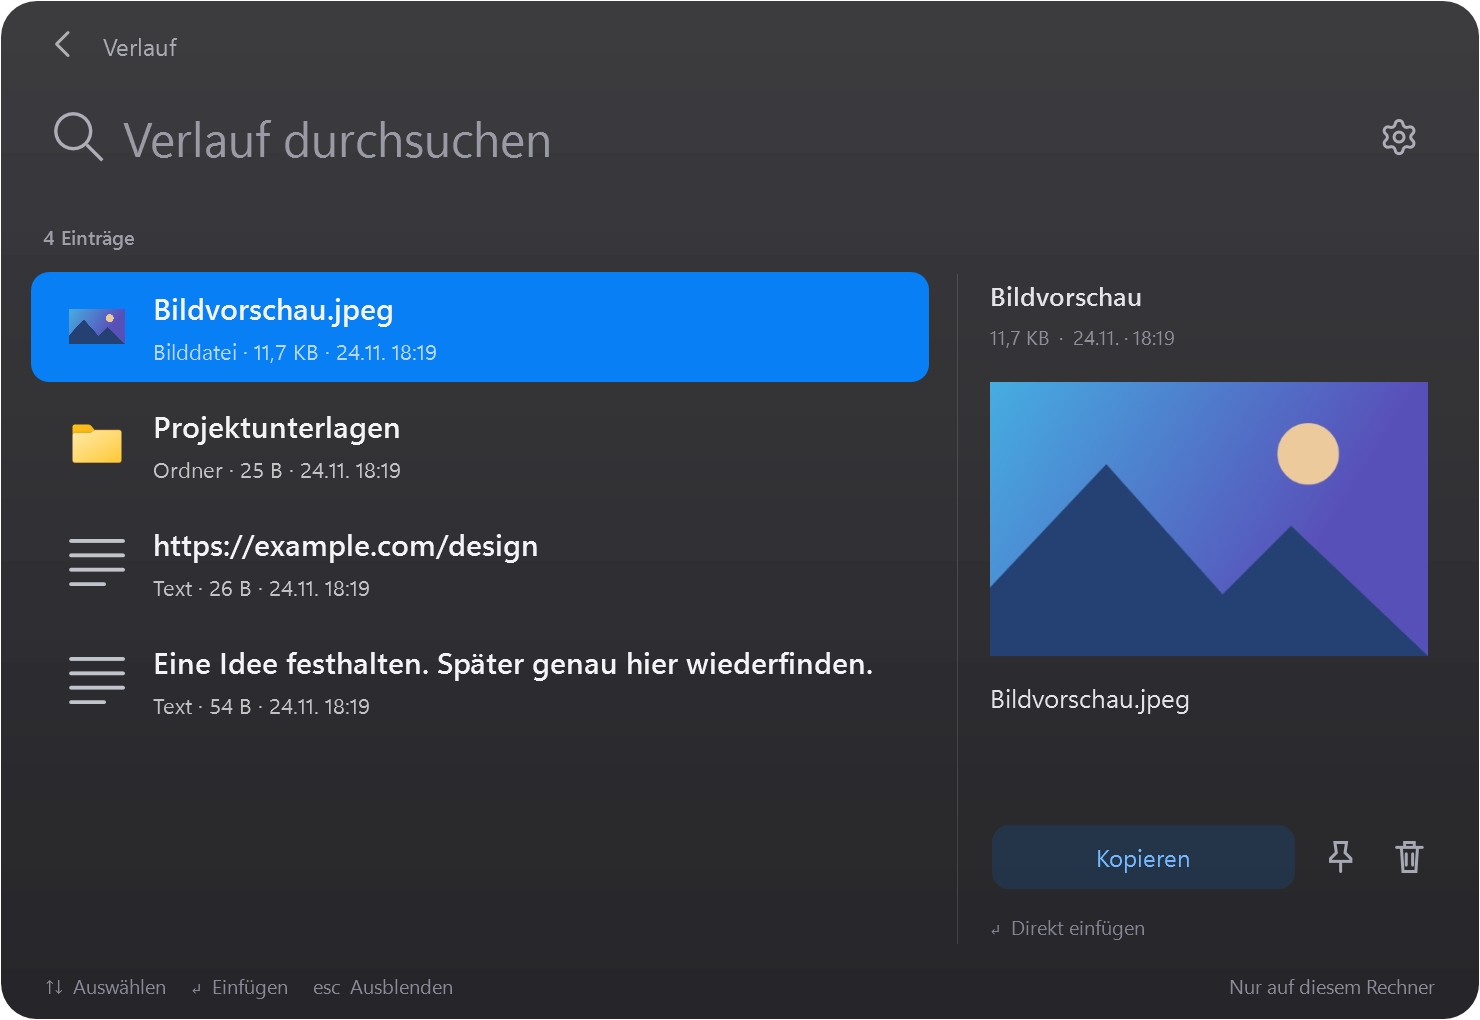
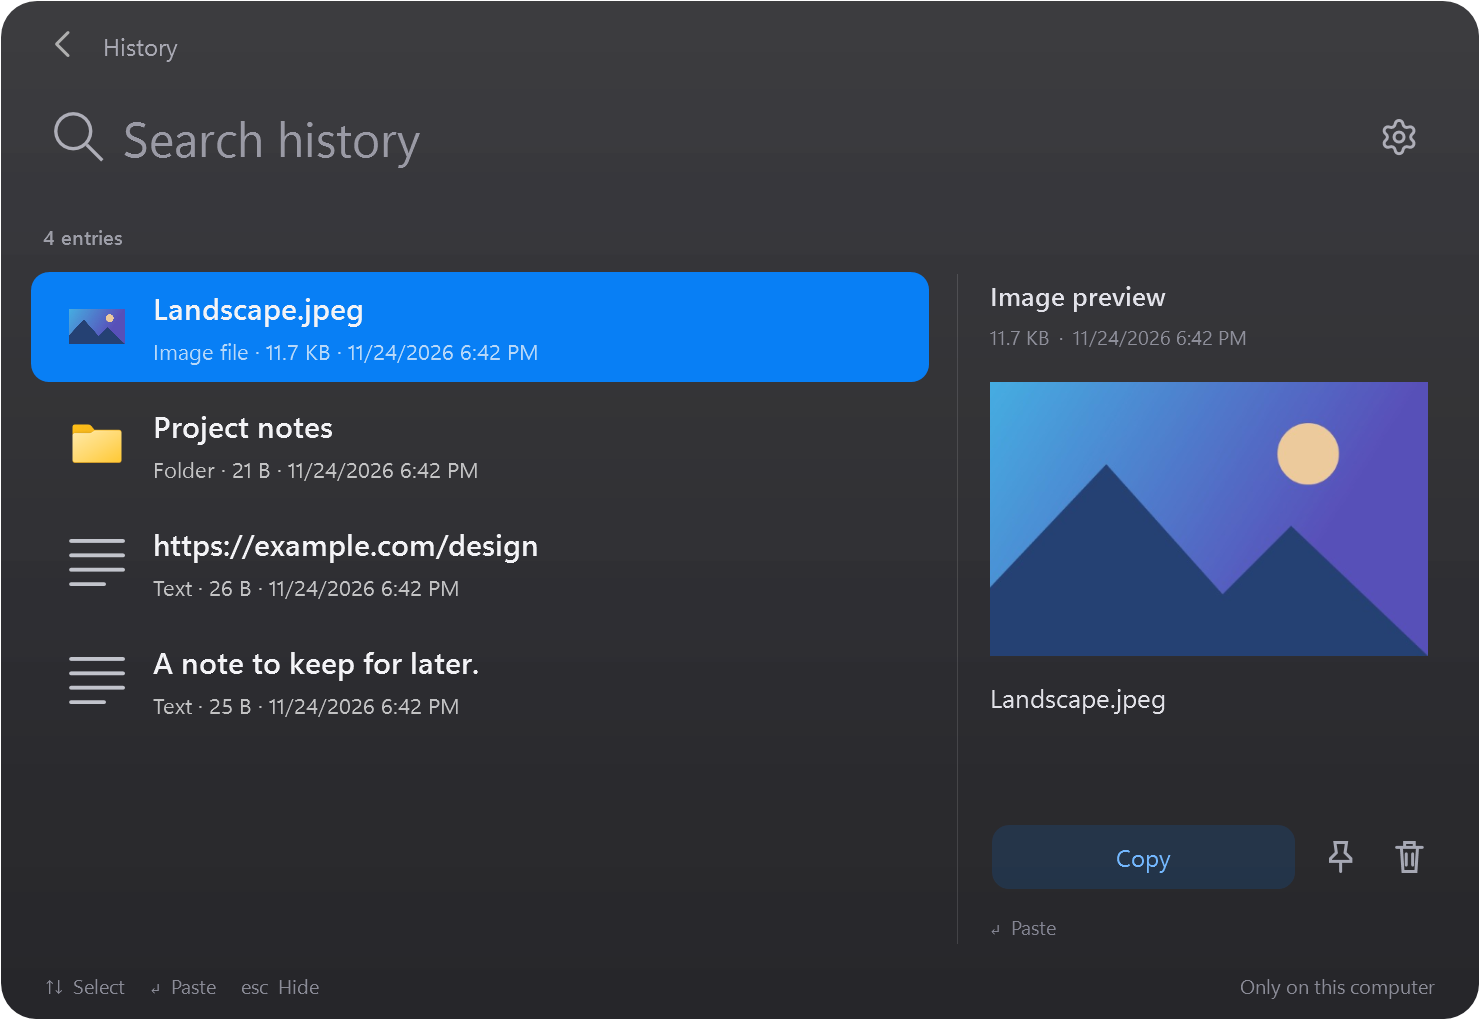
Show Windows and Mac screenshots and finish language-aware formatting

diff --git a/mac/Kopra.swift b/mac/Kopra.swift
@@ -35,7 +35,7 @@ struct SettingsView: View {
         VStack(alignment:.leading,spacing:14){Text("Kopra").font(.system(size:25,weight:.semibold));Picker(L.text("Bereich"),selection:$model.settingsTab){Text(L.text("Allgemein")).tag(0);Text(L.text("Verlauf")).tag(1);Text(L.text("Geräte")).tag(2);Text(L.text("Datenschutz")).tag(3)}.pickerStyle(.segmented)
             Form{
                 if model.settingsTab==0{Section(L.text("Sprache")){Picker(L.text("Sprache der App"),selection:Binding(get:{model.history.preferences.language},set:{model.history.preferences.language=$0;L.use($0);model.save();model.search()})){Text("English").tag("en");Text("Deutsch").tag("de")}};Section(L.text("Bedienung")){Toggle(L.text("Zwischenablageverlauf pausieren"),isOn:binding(\.paused));Toggle(L.text("Nach Anmeldung starten"),isOn:Binding(get:{SMAppService.mainApp.status == .enabled},set:{enabled in do{if enabled{try SMAppService.mainApp.register()}else{try SMAppService.mainApp.unregister()};model.save()}catch{model.status=L.text("Autostart in den Systemeinstellungen prüfen")}}));HStack{Text(L.text("Suche öffnen"));Spacer();Button(L.shortcut(model.history.preferences.searchLabel)){recordSearch=true}};HStack{Text(L.text("Verlauf öffnen"));Spacer();Button(L.shortcut(model.history.preferences.historyLabel)){recordHistory=true}}};Section(L.text("Suche")){Text(L.text("Apps, Dateien und Ordner sowie die wichtigsten Systemeinstellungen."));Text(L.text("Die Dateisuche verwendet den lokalen macOS-Index.")).font(.caption).foregroundStyle(.secondary)}}
-                if model.settingsTab==1{Section(L.text("Wie lange soll dein Verlauf bleiben?")){Picker(L.text("Texte behalten"),selection:binding(\.textDays)){Text(L.text("1 Tag")).tag(1);Text(L.text("1 Woche")).tag(7);Text(L.text("2 Wochen")).tag(14);Text(L.text("1 Monat")).tag(30);Text(L.text("3 Monate")).tag(90);Text(L.text("1 Jahr")).tag(365)};Picker(L.text("Bilder und Dateien behalten"),selection:binding(\.fileDays)){Text(L.text("1 Tag")).tag(1);Text(L.text("1 Woche")).tag(7);Text(L.text("2 Wochen")).tag(14);Text(L.text("1 Monat")).tag(30);Text(L.text("3 Monate")).tag(90);Text(L.text("1 Jahr")).tag(365)};Text(L.text("Angeheftete Einträge bleiben erhalten.")).font(.caption).foregroundStyle(.secondary)};Section(L.text("Speicher")){Picker(L.text("Platz für den Verlauf"),selection:binding(\.budgetMB)){Text("512 MB").tag(512);Text("1 GB").tag(1024);Text(L.text("2 GB · empfohlen")).tag(2048);Text("5 GB").tag(5120);Text("10 GB").tag(10240)};Text(ByteCountFormatter.string(fromByteCount:model.history.allocated(),countStyle:.file)+" verwendet").font(.caption).foregroundStyle(.secondary);DisclosureGroup(L.text("Weitere Schutzgrenzen"),isExpanded:$advanced){Picker(L.text("Freihalten auf dem Laufwerk"),selection:binding(\.reserveMB)){Text("1 GB").tag(1024);Text(L.text("5 GB · empfohlen")).tag(5120);Text("10 GB").tag(10240)};Text(L.text("Maximal 32 MB pro geräteübergreifender Kopie. Größere Kopien werden in dieser Fassung nicht gesichert.")).font(.caption).foregroundStyle(.secondary)}}}
+                if model.settingsTab==1{Section(L.text("Wie lange soll dein Verlauf bleiben?")){Picker(L.text("Texte behalten"),selection:binding(\.textDays)){Text(L.text("1 Tag")).tag(1);Text(L.text("1 Woche")).tag(7);Text(L.text("2 Wochen")).tag(14);Text(L.text("1 Monat")).tag(30);Text(L.text("3 Monate")).tag(90);Text(L.text("1 Jahr")).tag(365)};Picker(L.text("Bilder und Dateien behalten"),selection:binding(\.fileDays)){Text(L.text("1 Tag")).tag(1);Text(L.text("1 Woche")).tag(7);Text(L.text("2 Wochen")).tag(14);Text(L.text("1 Monat")).tag(30);Text(L.text("3 Monate")).tag(90);Text(L.text("1 Jahr")).tag(365)};Text(L.text("Angeheftete Einträge bleiben erhalten.")).font(.caption).foregroundStyle(.secondary)};Section(L.text("Speicher")){Picker(L.text("Platz für den Verlauf"),selection:binding(\.budgetMB)){Text("512 MB").tag(512);Text("1 GB").tag(1024);Text(L.text("2 GB · empfohlen")).tag(2048);Text("5 GB").tag(5120);Text("10 GB").tag(10240)};Text(L.bytes(model.history.allocated())+L.text(" verwendet")).font(.caption).foregroundStyle(.secondary);DisclosureGroup(L.text("Weitere Schutzgrenzen"),isExpanded:$advanced){Picker(L.text("Freihalten auf dem Laufwerk"),selection:binding(\.reserveMB)){Text("1 GB").tag(1024);Text(L.text("5 GB · empfohlen")).tag(5120);Text("10 GB").tag(10240)};Text(L.text("Maximal 32 MB pro geräteübergreifender Kopie. Größere Kopien werden in dieser Fassung nicht gesichert.")).font(.caption).foregroundStyle(.secondary)}}}
                 if model.settingsTab==2{DevicePairingView(model:model)}
                 if model.settingsTab==3{Section(L.text("Von diesen Apps nichts speichern")){ForEach(model.history.preferences.excluded,id:\.self){id in HStack{Text(NSWorkspace.shared.urlForApplication(withBundleIdentifier:id)?.deletingPathExtension().lastPathComponent ?? id);Spacer();Button(L.text("Entfernen")){model.history.preferences.excluded.removeAll{$0==id};model.save()}}};Button(L.text("App ausschließen …")){let picker=NSOpenPanel();picker.allowedContentTypes=[.applicationBundle];picker.directoryURL=URL(fileURLWithPath:"/Applications");if picker.runModal() == .OK,let url=picker.url,let bundle=Bundle(url:url)?.bundleIdentifier{if !model.history.preferences.excluded.contains(bundle){model.history.preferences.excluded.append(bundle);model.save()}}}};Section(L.text("Verlauf löschen")){Button(L.text("Nicht angehefteten Verlauf löschen …"),role:.destructive){clearUnpinned=true};Button(L.text("Gesamten Verlauf löschen …"),role:.destructive){clearAll=true};Text(L.text("Originaldateien bleiben erhalten. Lokale Verlaufsdaten sind nicht zusätzlich verschlüsselt.")).font(.caption).foregroundStyle(.secondary)}}
             }.formStyle(.grouped)

diff --git a/mac/AppModel.swift b/mac/AppModel.swift
@@ -30,11 +30,11 @@ struct SearchResult: Identifiable { var id: String; var title: String; var subti
     }
     func search() {
         searchGeneration+=1;let generation=searchGeneration;selected=0
-        if historyMode { rows=history.entries.filter{query.isEmpty||$0.title.localizedCaseInsensitiveContains(query)||$0.text.localizedCaseInsensitiveContains(query)}.sorted{a,b in a.pinned != b.pinned ? a.pinned : a.created>b.created}.prefix(200).map{SearchResult(id:$0.id,title:$0.title,subtitle:($0.origin.isEmpty ? "": L.format("Von {0} · ", $0.origin))+ByteCountFormatter.string(fromByteCount:Int64($0.bytes),countStyle:.file),url:$0.paths.first.map{URL(fileURLWithPath:$0)},symbol:$0.kind=="text" ? "text.alignleft":"doc",entry:$0)};return }
+        if historyMode { rows=history.entries.filter{query.isEmpty||$0.title.localizedCaseInsensitiveContains(query)||$0.text.localizedCaseInsensitiveContains(query)}.sorted{a,b in a.pinned != b.pinned ? a.pinned : a.created>b.created}.prefix(200).map{SearchResult(id:$0.id,title:$0.title,subtitle:($0.origin.isEmpty ? "": L.format("Von {0} · ", $0.origin))+L.bytes(Int64($0.bytes)),url:$0.paths.first.map{URL(fileURLWithPath:$0)},symbol:$0.kind=="text" ? "text.alignleft":"doc",entry:$0)};return }
         let term=query;var result=[SearchResult]();if term.isEmpty||"Verlauf Zwischenablage".localizedCaseInsensitiveContains(term){result.append(SearchResult(id:"history",title:L.text("Verlauf"),subtitle:L.text("Texte, Bilder, Dateien und Ordner"),symbol:"clipboard",entry:nil))}
         let apps=term.isEmpty ? recent : applications.filter{self.appTitle($0).localizedCaseInsensitiveContains(term)||self.appKeywords($0).localizedCaseInsensitiveContains(term)}.sorted{a,b in a.deletingPathExtension().lastPathComponent.localizedCaseInsensitiveCompare(term) == .orderedSame}
         result += apps.prefix(12).map{SearchResult(id:$0.path,title:self.appTitle($0),subtitle:term.isEmpty ? L.text("Zuletzt verwendet"):"App",url:$0,symbol:"app",entry:nil)}
-        let settingsList:[(String,String)]=[("Systemeinstellungen",""),("WLAN","com.apple.wifi-settings-extension"),("Bluetooth","com.apple.BluetoothSettings"),("Ton","com.apple.Sound-Settings.extension"),("Displays","com.apple.Displays-Settings.extension"),("Tastatur","com.apple.Keyboard-Settings.extension"),(L.text("Datenschutz und Sicherheit"),"com.apple.settings.PrivacySecurity.extension"),("Mitteilungen","com.apple.Notifications-Settings.extension"),(L.text("Allgemein"),"com.apple.systempreferences.GeneralSettings"),("Bedienungshilfen","com.apple.Accessibility-Settings.extension"),("Batterie","com.apple.Battery-Settings.extension"),(L.text("Schreibtisch und Dock"),"com.apple.Desktop-Settings.extension"),("Maus","com.apple.Mouse-Settings.extension"),("Trackpad","com.apple.Trackpad-Settings.extension"),("Netzwerk","com.apple.Network-Settings.extension"),(L.text("Speicher"),"com.apple.settings.Storage"),(L.text("Datum und Uhrzeit"),"com.apple.Date-Time-Settings.extension"),(L.text("Sprache und Region"),"com.apple.Localization-Settings.extension"),(L.text("Benutzer und Gruppen"),"com.apple.Users-Groups-Settings.extension"),("Sperrbildschirm","com.apple.Lock-Screen-Settings.extension"),("Fokus","com.apple.Focus-Settings.extension")]
+        let settingsList:[(String,String)]=[("Systemeinstellungen",""),(L.text("WLAN"),"com.apple.wifi-settings-extension"),("Bluetooth","com.apple.BluetoothSettings"),("Ton","com.apple.Sound-Settings.extension"),("Displays","com.apple.Displays-Settings.extension"),(L.text("Tastatur"),"com.apple.Keyboard-Settings.extension"),(L.text("Datenschutz und Sicherheit"),"com.apple.settings.PrivacySecurity.extension"),("Mitteilungen","com.apple.Notifications-Settings.extension"),(L.text("Allgemein"),"com.apple.systempreferences.GeneralSettings"),("Bedienungshilfen","com.apple.Accessibility-Settings.extension"),("Batterie","com.apple.Battery-Settings.extension"),(L.text("Schreibtisch und Dock"),"com.apple.Desktop-Settings.extension"),(L.text("Maus"),"com.apple.Mouse-Settings.extension"),("Trackpad","com.apple.Trackpad-Settings.extension"),("Netzwerk","com.apple.Network-Settings.extension"),(L.text("Speicher"),"com.apple.settings.Storage"),(L.text("Datum und Uhrzeit"),"com.apple.Date-Time-Settings.extension"),(L.text("Sprache und Region"),"com.apple.Localization-Settings.extension"),(L.text("Benutzer und Gruppen"),"com.apple.Users-Groups-Settings.extension"),("Sperrbildschirm","com.apple.Lock-Screen-Settings.extension"),("Fokus","com.apple.Focus-Settings.extension")]
         if !term.isEmpty {result += settingsList.filter{$0.0.localizedCaseInsensitiveContains(term)}.map{SearchResult(id:"setting:"+$0.1,title:$0.0,subtitle:"Systemeinstellung",url:URL(string:"x-apple.systempreferences:"+$0.1),symbol:"gearshape",entry:nil)}}
         rows=Array(result.prefix(20));guard term.count>=2 else{return};let base=result
         DispatchQueue.global(qos:.userInitiated).async {let task=Process();task.executableURL=URL(fileURLWithPath:"/usr/bin/mdfind");task.arguments=["-onlyin",NSHomeDirectory(),"-name",term];let pipe=Pipe();task.standardOutput=pipe;task.standardError=FileHandle.nullDevice;do{try task.run();let data=pipe.fileHandleForReading.readDataToEndOfFile();task.waitUntilExit();let paths=String(data:data,encoding:.utf8)?.split(separator:"\n").prefix(20).map(String.init) ?? [];Task{@MainActor in guard self.searchGeneration==generation else{return};var seen=Set(base.map{$0.id});self.rows=base+paths.filter{seen.insert($0).inserted}.map{let url=URL(fileURLWithPath:$0);return SearchResult(id:$0,title:url.lastPathComponent,subtitle:url.deletingLastPathComponent().path,url:url,symbol:"doc",entry:nil)}}}catch{} }

diff --git a/mac/Localization.swift b/mac/Localization.swift
@@ -13,6 +13,7 @@ enum L {
         if let original=english.first(where:{$0.value==source})?.key{return german[original] ?? original}
         return source
     }
+    static func bytes(_ count:Int64)->String{var size=Double(count);let units=["B","KB","MB","GB","TB"];var unit=0;while size>=1024 && unit<units.count-1{size/=1024;unit+=1};let format=NumberFormatter();format.locale=Locale(identifier:language);format.numberStyle = .decimal;format.maximumFractionDigits=unit==0 ? 0:1;return (format.string(from:NSNumber(value:size)) ?? String(count))+" "+units[unit]}
     static func shortcut(_ value:String)->String{language=="de" ? value.replacingOccurrences(of:"Space",with:"Leertaste"):value.replacingOccurrences(of:"Leertaste",with:"Space")}
     static func format(_ source:String,_ values:Any...)->String{
         var result=text(source);let pattern=try! NSRegularExpression(pattern:"\\{([0-9]+)(?::([^}]+))?\\}")

diff --git a/src/LauncherWindow.cs b/src/LauncherWindow.cs
@@ -314,7 +314,7 @@ sealed partial class LauncherWindow : Window
                 rows = (await Task.WhenAll(clips.Select(async x => { var picture = Thumbnail(x); if (picture == null && x.Files.Length > 0 && IsPicture(x.Files[0])) picture = await Icons.PreviewAsync(x.Files[0]); ImageSource? icon = picture ?? (x.Kind == "files" && x.Files.Length > 0 ? await Icons.ForAsync(new(x.Title, x.Files[0], "Datei", x.Subtitle)) : null); return new ViewItem(x.Title, (x.OriginName.Length > 0 ? L.Format("Von {0} · ", x.OriginName) : "") + x.Subtitle, "", x, icon ?? (x.Kind == "text" ? Icons.TextSymbol() : null), picture); }))).ToList();
             }
             else
-                rows = (await Task.WhenAll((await search.Search(query, token)).Select(async x => new ViewItem(x.Title, x.Detail, "", x, await Icons.ForAsync(x))))).ToList();
+                rows = (await Task.WhenAll((await search.Search(query, token)).Select(async x => new ViewItem(x.Title, L.Text(x.Detail), "", x, await Icons.ForAsync(x))))).ToList();
             if (!history && (query.Length == 0 || SearchService.Rank(L.Text("Verlauf"), query) > 0 || SearchService.Rank(L.Text("Zwischenablage"), query) > 0))
                 rows.Insert(0, HistoryAction());
             if (current != generation || token.IsCancellationRequested || editing)
@@ -393,7 +393,7 @@ sealed partial class LauncherWindow : Window
             Height = GridLength.Auto
         });
         Add(preview, new TextBlock { Text = row.Preview != null ? L.Text("Bildvorschau") : item.Kind == "files" ? L.Text("Dateien") : L.Text("Textvorschau"), FontSize = 13, FontWeight = FontWeights.Medium, Foreground = new SolidColorBrush(Color.FromRgb(226, 226, 233)) }, 0);
-        Add(preview, new TextBlock { Text = $"{ClipEntry.FormatBytes(item.Bytes)}  ·  {item.Created.ToLocalTime().ToString("g", System.Globalization.CultureInfo.CurrentCulture)}{(item.Pinned ? L.Text("  ·  Angeheftet") : "")}", FontSize = 10, Foreground = new SolidColorBrush(Color.FromRgb(142, 143, 154)), Margin = new Thickness(0, 5, 0, 16) }, 1);
+        Add(preview, new TextBlock { Text = $"{ClipEntry.FormatBytes(item.Bytes)}  ·  {item.Created.ToLocalTime().ToString("g", L.Culture)}{(item.Pinned ? L.Text("  ·  Angeheftet") : "")}", FontSize = 10, Foreground = new SolidColorBrush(Color.FromRgb(142, 143, 154)), Margin = new Thickness(0, 5, 0, 16) }, 1);
         var document = new StackPanel();
         if (row.Preview != null)
             document.Children.Add(new Image { Source = row.Preview, MaxHeight = 180, Stretch = Stretch.Uniform, Margin = new Thickness(0, 0, 0, 12) });
@@ -650,11 +650,12 @@ sealed partial class LauncherWindow : Window
             Passed = immediate && first && entered && down && up && tabNavigates && settingsExclusive && tabs && noTyping && choiceCancelled && choiceApplied && cancelSheet && empty && emptyFits && hidden
         };
     }
-    public async Task RenderPreview(string path, bool clipboardMode, int selected = 0)
+    public async Task RenderPreview(string path, bool clipboardMode, int selected = 0, bool empty = false)
     {
         previewMode = true;
         ShowActivated = false;
         OpenMode(clipboardMode, false);
+        if (empty) input.Text = "qzxv-example";
         await UpdateResults();
         if (selected < list.Items.Count)
             list.SelectedIndex = selected;

diff --git a/src/Models.cs b/src/Models.cs
@@ -59,11 +59,11 @@ public sealed record ClipEntry(string Id, string Kind, string Title, string Text
         get
         {
             string kind = Kind == "text" ? L.Text("Text") : Kind == "image" ? L.Text("Bild") : Files.Length == 1 ? L.Text(Directory.Exists(Files[0]) ? "Ordner" : new[] { ".png", ".jpg", ".jpeg", ".gif", ".webp", ".heic" }.Contains(Path.GetExtension(Files[0]), StringComparer.OrdinalIgnoreCase) ? "Bilddatei" : "Datei") : L.Format("{0} Objekte", Files.Length);
-            return (Pinned ? L.Text("Angeheftet") + " · " : "") + kind + " · " + FormatBytes(Bytes) + " · " + Created.ToLocalTime().ToString("g", System.Globalization.CultureInfo.CurrentCulture);
+            return (Pinned ? L.Text("Angeheftet") + " · " : "") + kind + " · " + FormatBytes(Bytes) + " · " + Created.ToLocalTime().ToString("g", L.Culture);
         }
     }
     public string Glyph => Kind == "text" ? "≡" : Kind == "image" ? "▧" : "▱";
-    public static string FormatBytes(long value) => value >= 1073741824 ? $"{value / 1073741824d:0.#} GB" : value >= 1048576 ? $"{value / 1048576d:0.#} MB" : value >= 1024 ? $"{value / 1024d:0.#} KB" : $"{value} B";
+    public static string FormatBytes(long value) => value >= 1073741824 ? (value / 1073741824d).ToString("0.#", L.Culture) + " GB" : value >= 1048576 ? (value / 1048576d).ToString("0.#", L.Culture) + " MB" : value >= 1024 ? (value / 1024d).ToString("0.#", L.Culture) + " KB" : value.ToString(L.Culture) + " B";
 }
 public sealed record SearchItem(string Title, string Path, string Kind, string Detail, int Uses = 0, string Keywords = "")
 {

diff --git a/src/Localization.cs b/src/Localization.cs
@@ -8,6 +8,7 @@ static class L
     static readonly Dictionary<string, string> german = Load("de");
     static string language = "en";
     public static string Language => language;
+    public static CultureInfo Culture => CultureInfo.GetCultureInfo(language == "de" ? "de-DE" : "en-US");
     public static event Action? Changed;
     static Dictionary<string, string> Load(string locale) => JsonSerializer.Deserialize<Dictionary<string, string>>(File.ReadAllText(Path.Combine(AppContext.BaseDirectory, "assets", "localization." + locale + ".json")))!;
     public static void Use(string locale)
@@ -27,5 +28,5 @@ static class L
         var original = english.FirstOrDefault(x => x.Value == source).Key;
         return original == null ? source : german.GetValueOrDefault(original, original);
     }
-    public static string Format(string source, params object?[] values) => string.Format(CultureInfo.CurrentCulture, Text(source), values);
+    public static string Format(string source, params object?[] values) => string.Format(Culture, Text(source), values);
 }

diff --git a/src/Program.cs b/src/Program.cs
@@ -148,6 +148,7 @@ static class Program
                 await window.RenderPreview(Path.Combine(folder, "kopra-history.png"), true);
                 await window.RenderPreview(Path.Combine(folder, "kopra-history-text.png"), true, 3);
                 await window.RenderPreview(Path.Combine(folder, "kopra-history-folder.png"), true, 1);
+                await window.RenderPreview(Path.Combine(folder, "kopra-empty.png"), false, 0, true);
                 await window.RenderSettingsPreview(Path.Combine(folder, "kopra-general.png"), 0);
                 await window.RenderSettingsPreview(Path.Combine(folder, "kopra-storage.png"), 1);
                 await window.RenderSettingsPreview(Path.Combine(folder, "kopra-privacy.png"), 2);

diff --git a/README.md b/README.md
@@ -6,6 +6,17 @@ Kopra opens apps, finds files and keeps a local clipboard history. Copied files 
 
 Use Kopra on Windows or macOS by itself. Pair a Mac with a Windows PC when you want new copies to appear on both.
 
+## Screenshots
+
+Clipboard history with example content.
+
+### Windows
+
+<img src="docs/screenshots/windows-history.png" alt="Kopra on Windows, showing clipboard history and an image preview" width="740">
+
+### macOS
+
+<img src="docs/screenshots/mac-history.png" alt="Kopra on macOS, showing clipboard history and an image preview" width="740">
 ## Downloads
 
 [Windows installer](https://github.com/WendelinProfiler/kopra/releases/download/v1.0.0-beta.3/Kopra-Setup-Windows-x64-preview.exe) · [Windows portable ZIP](https://github.com/WendelinProfiler/kopra/releases/download/v1.0.0-beta.3/Kopra-Windows-x64-preview.zip) · [Mac universal ZIP](https://github.com/WendelinProfiler/kopra/releases/download/v1.0.0-beta.3/Kopra-macOS-universal-preview.zip)
@@ -13,6 +24,7 @@ Use Kopra on Windows or macOS by itself. Pair a Mac with a Windows PC when you w
 These are beta previews. Windows is unsigned and the Mac app is not notarized. SHA-256 checksums are included on the [release page](https://github.com/WendelinProfiler/kopra/releases/tag/v1.0.0-beta.3).
 
 On Windows, run the installer or extract the portable ZIP. On Mac, extract the ZIP and move Kopra.app into Applications. Kopra runs from the Windows tray or Mac menu bar; click its icon to open search or settings. Starting automatically after login is optional.
+
 ## Getting started
 
 On Windows, the Windows key opens search. The first result opens your clipboard history. On Mac, the default search shortcut is Command + Space. If another app has reserved it, Kopra uses Control + Option + Space and tells you.
@@ -21,7 +33,9 @@ While Kopra is visible, it keeps keyboard focus. Its file pickers and other dial
 
 Change the search and history shortcuts in Settings → General. Press the combination you want. Kopra checks whether it can register it before saving the change.
 
-The current interface is in German. Windows 11 and macOS 13 or later are supported. The Mac package includes Apple silicon and Intel builds.
+Kopra starts in English. Choose English or Deutsch in Settings → General → Language. Each device keeps its own language setting.
+
+Windows 11 and macOS 13 or later are supported. The Mac package includes Apple silicon and Intel builds.
 
 ## Pairing a Mac and Windows PC
 

diff --git a/CHANGELOG.md b/CHANGELOG.md
@@ -1,5 +1,12 @@
 # Changelog
 
+## 1.0.0 beta 4
+
+- Choose English or German in Settings. New installs use English.
+- Language changes apply immediately and stay on each device.
+- Fix the clipped search icon and hint when search returns no results.
+- Add native Windows and Mac screenshots with example content.
+
 ## 1.0.0 beta 3
 
 - Keep keyboard focus while the app is visible on Windows and Mac.
